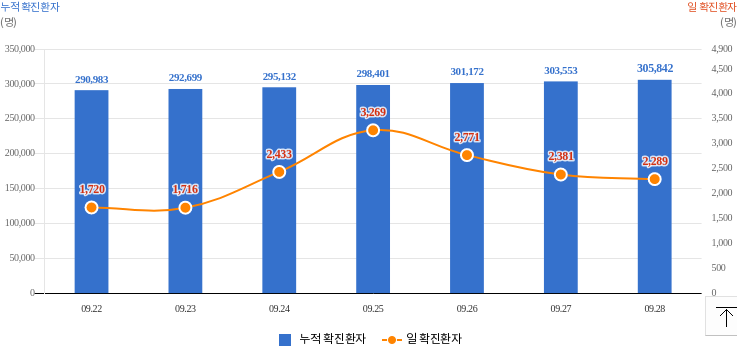
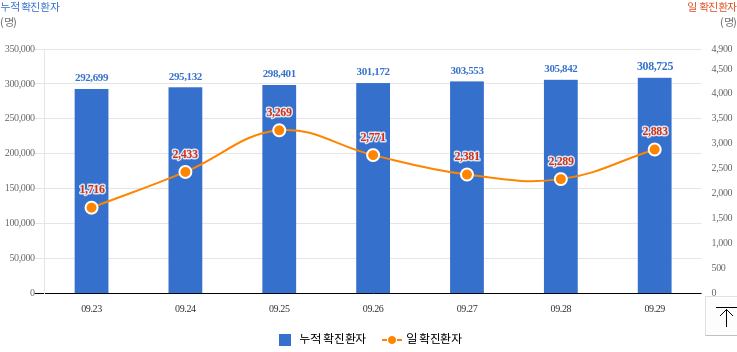
Run crawler and update current data

diff --git a/data.js b/data.js
@@ -7,7 +7,7 @@ var 검사중 = '2,260';
 var 검사결과 = '447,409';
 var 자가격리자 = '321';
 var 거리두기단계 = '사회적 거리두기  3단계 시행 : 2021.9.6.(월) 0시 ~ 10.3.(일) 24시';
-var 국내발생 = '2,270';
-var 해외발생 = '19';
-var 합계 = '2289';
+var 국내발생 = '2,859';
+var 해외발생 = '26';
+var 합계 = '2885';
 var data = [];
